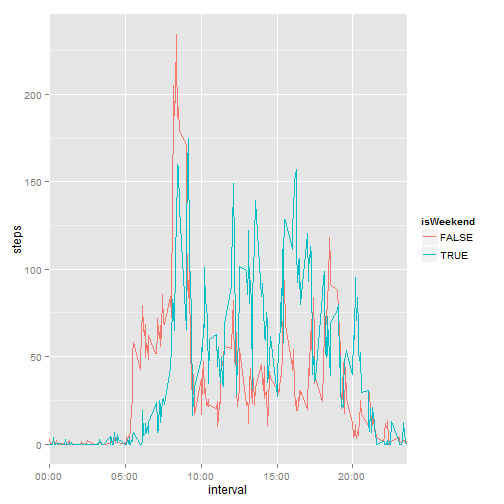
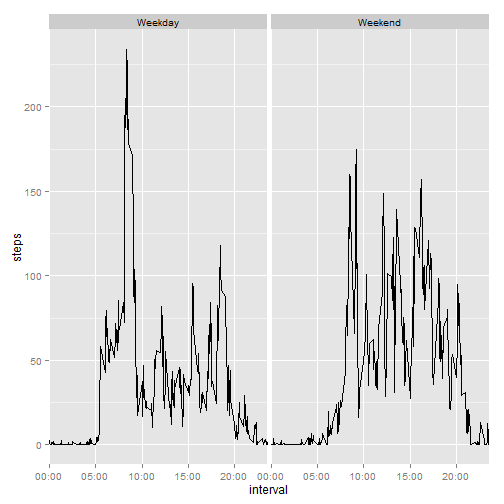
(Yet another) small thing, it seems that panels are mandatory in the last figure.

diff --git a/PA1_template.html b/PA1_template.html
@@ -305,14 +305,16 @@ histogram2
 <p>Let&#39;s compare the daily pattern of weekdays with that of the weekend. We use the original data, since the filling-in in the previous section didn&#39;t take into account weekends and it could therefore mislead the results.</p>
 
 <pre><code class="r">activity$isWeekend &lt;- as.POSIXlt(activity$datetime)$wday %in% c(0,6)
+activity$isWeekend &lt;- ifelse(activity$isWeekend, &quot;Weekend&quot;, &quot;Weekday&quot;)
 act.final &lt;- aggregate(steps ~ interval + isWeekend, data=activity, FUN=mean)
-day.pattern2 &lt;- ggplot(data=act.final, aes(x=interval, y=steps, color=isWeekend))
+day.pattern2 &lt;- ggplot(data=act.final, aes(x=interval, y=steps))
 day.pattern2 &lt;- day.pattern2 + geom_line()
+day.pattern2 &lt;- day.pattern2 + facet_grid(. ~ isWeekend)
 day.pattern2 &lt;- day.pattern2 + scale_x_discrete(breaks=day.breaks,labels=day.breaks.time)
 day.pattern2
 </code></pre>
 
[2 lines of base64/hex data omitted]
 
 <p>There are clear differences in the patterns, as it would have been expected. There is a higher activity earlier in the morning during the weekdays and a overall higher activity later in the day during weekends, which seems reasonable.</p>
 

diff --git a/PA1_template.md b/PA1_template.md
@@ -130,9 +130,11 @@ Let's compare the daily pattern of weekdays with that of the weekend. We use the
 
 ```r
 activity$isWeekend <- as.POSIXlt(activity$datetime)$wday %in% c(0,6)
+activity$isWeekend <- ifelse(activity$isWeekend, "Weekend", "Weekday")
 act.final <- aggregate(steps ~ interval + isWeekend, data=activity, FUN=mean)
-day.pattern2 <- ggplot(data=act.final, aes(x=interval, y=steps, color=isWeekend))
+day.pattern2 <- ggplot(data=act.final, aes(x=interval, y=steps))
 day.pattern2 <- day.pattern2 + geom_line()
+day.pattern2 <- day.pattern2 + facet_grid(. ~ isWeekend)
 day.pattern2 <- day.pattern2 + scale_x_discrete(breaks=day.breaks,labels=day.breaks.time)
 day.pattern2
 ```
